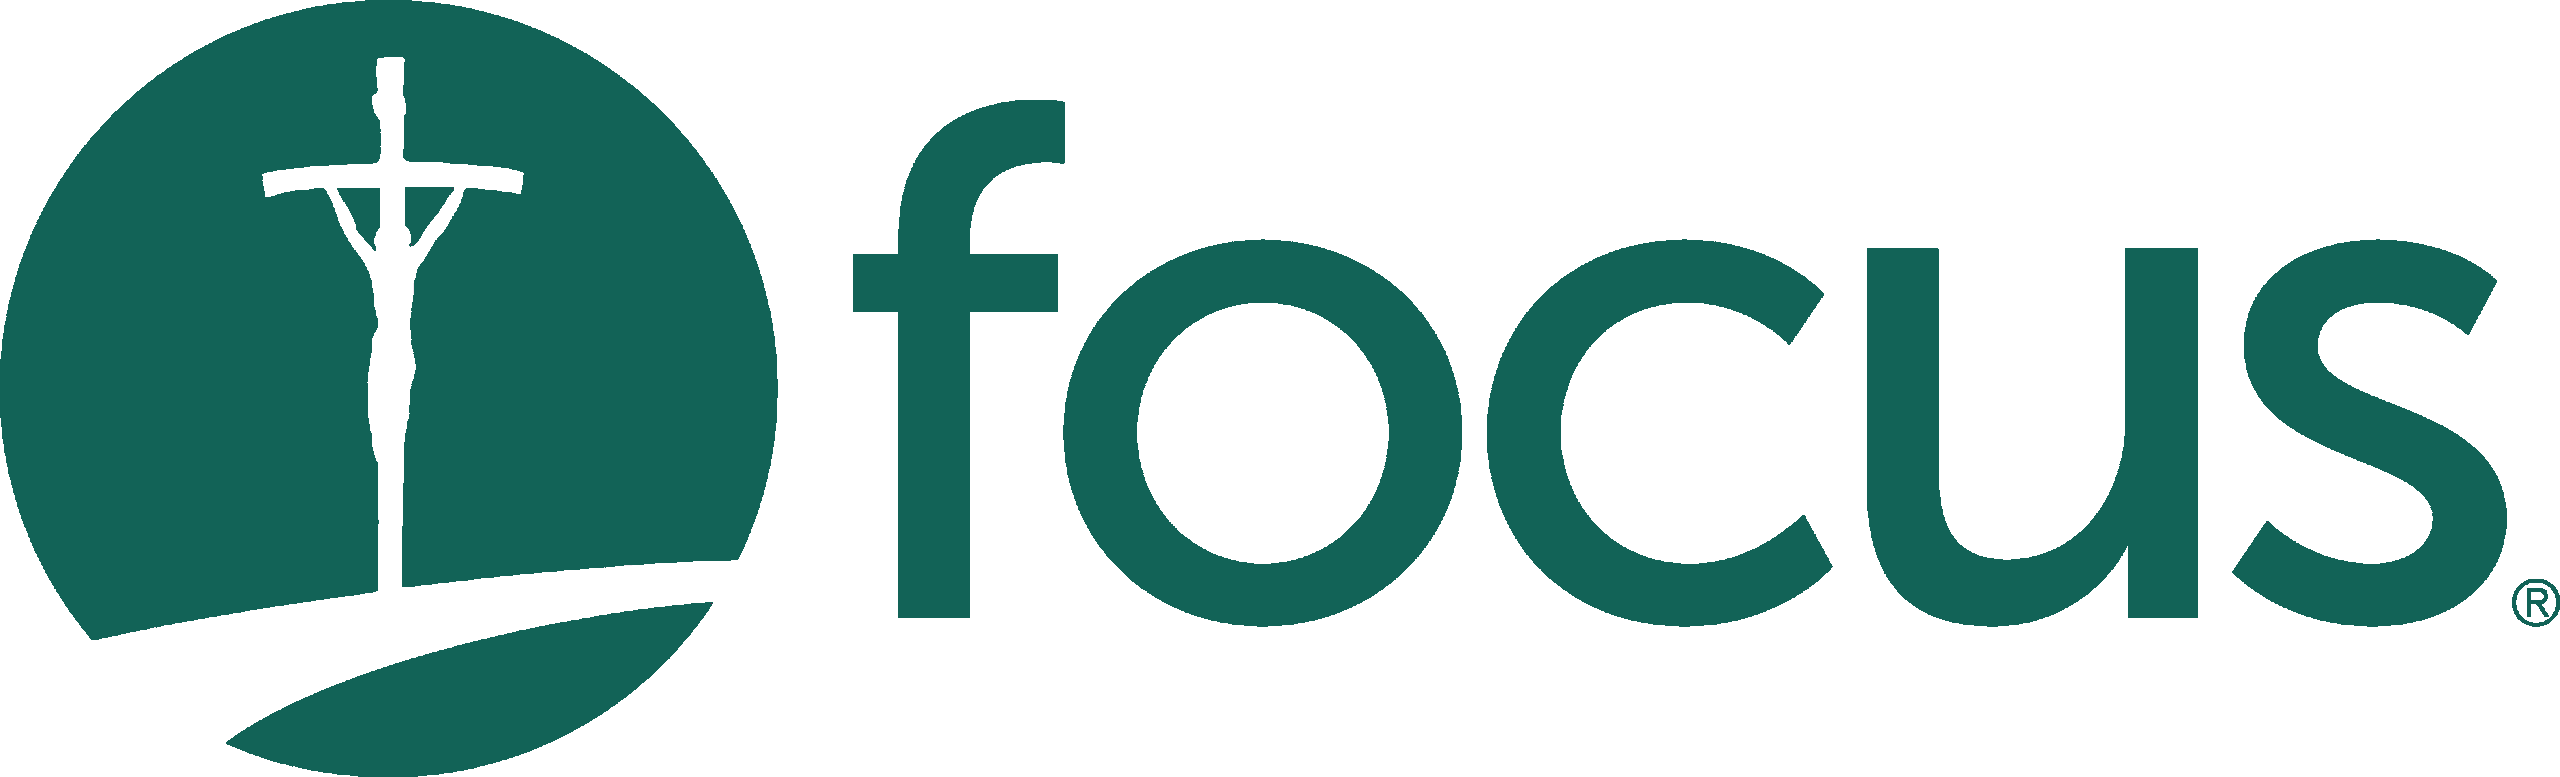
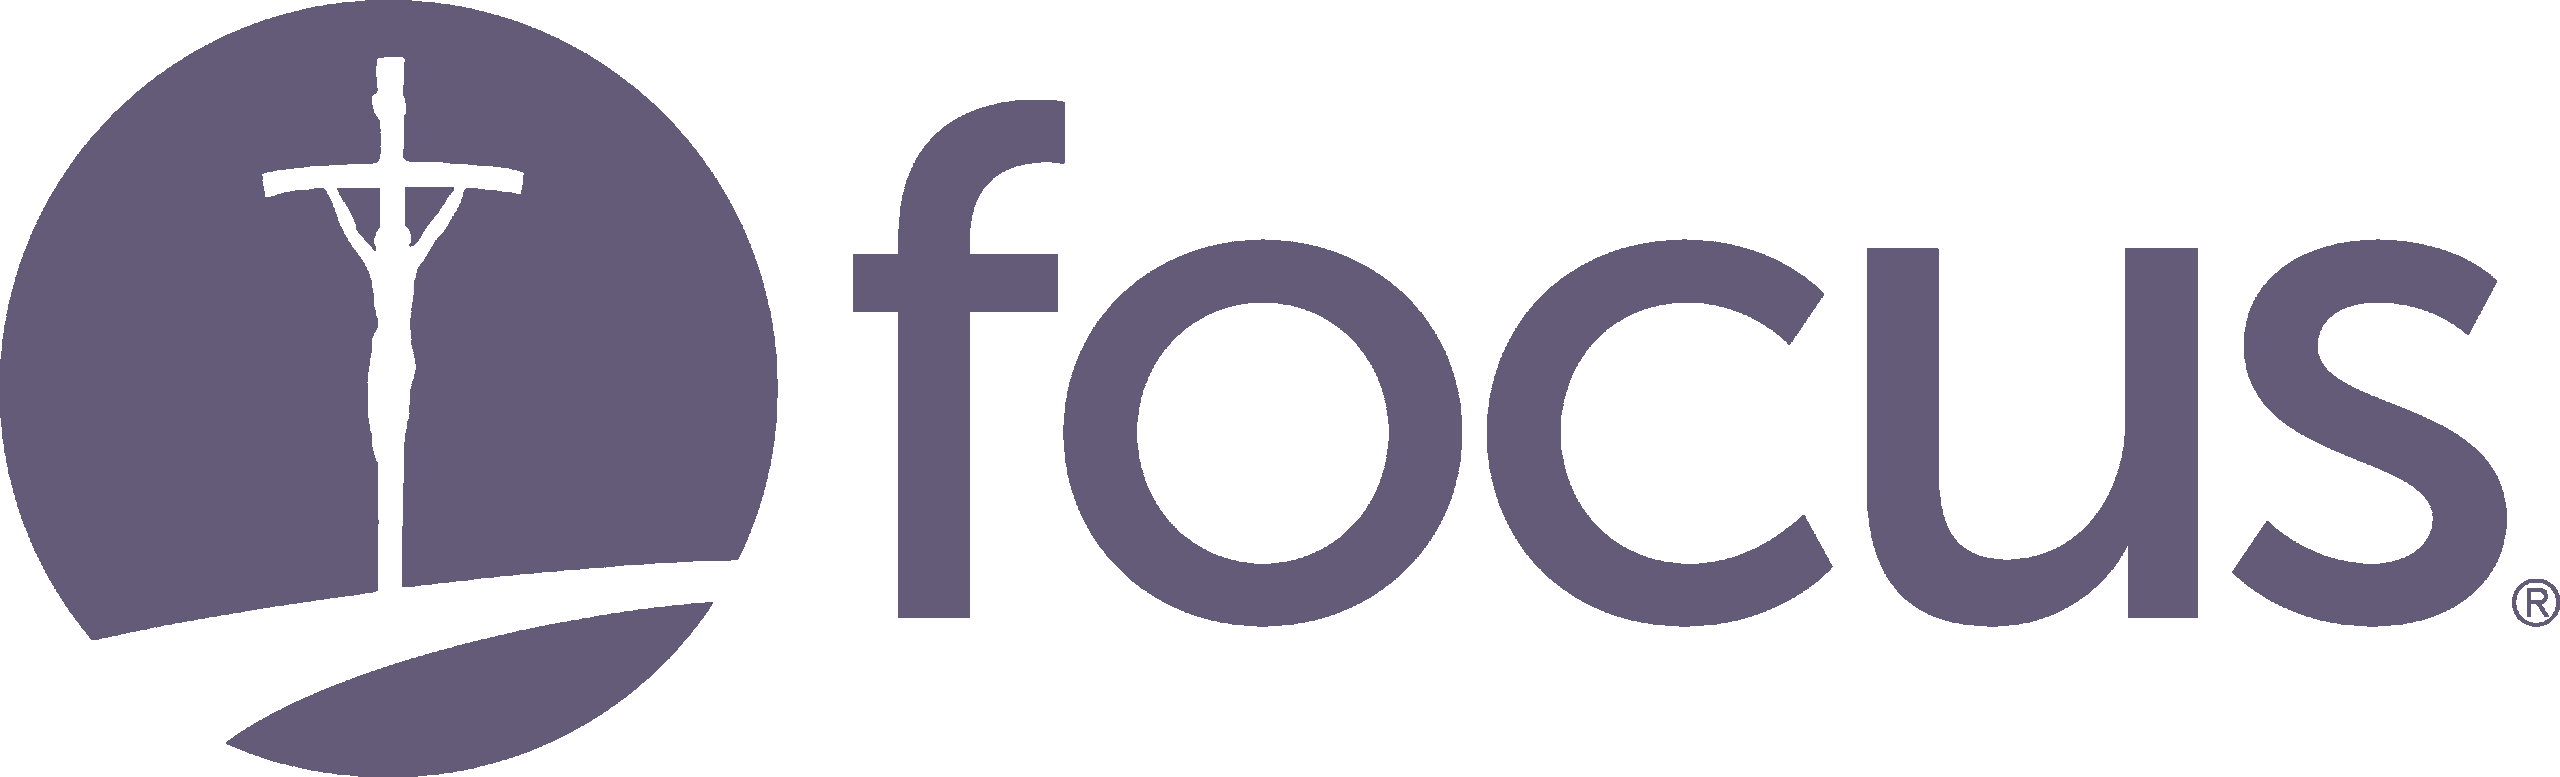
Work on March '25 newsletter. Added photos, updated colors, started writing intro

diff --git a/2025/03/colors.css b/2025/03/colors.css
@@ -1,14 +1,13 @@
 :root {
-	--page-color: #f9eeee;
+	--page-color: #e9e8f8;
 
-	--title-tx-color: #126357;
+	--title-tx-color: #635b77;
 	--h-color: var(--title-tx-color);
 
-	--tx-color: #908272;
+	--tx-color: #8e93c3;
 
-	--box-bg-color: #ffc6c5;
+	--box-bg-color: #eff2f7;
 	--box-tx-color: var(--title-tx-color);
-
 }
 
 /* img:not(.contain) {

diff --git a/2025/03/pages.php b/2025/03/pages.php
@@ -9,7 +9,7 @@
 		</div>
 		<div class="page-item vert-center text-center w4 nopad">
 			<h1 class="cardo">The Mission at Mesa</h1>
-			<h5 class="italic" style="white-space: nowrap;">Zach Hofmeister<span class="no-style"> | </span>Colorado Mesa University<span class="no-style"> | </span>February 2025</h5>
+			<h5 class="italic" style="white-space: nowrap;">Zach Hofmeister<span class="no-style"> | </span>Colorado Mesa University<span class="no-style"> | </span>March 2025</h5>
 		</div>
 		<div class="page-item vert-center">
 			<img class="contain no-lightbox" src="/2025/03/images/cmu.png" alt="CMU logo">
@@ -19,7 +19,7 @@
 	<!-- MAIN IMAGE -->
 	<div class="page-section _30">
 		<div class="page-item">
-			<img class="h100" src="/2025/03/images/awake-group.jpeg" alt="" style="object-position: 50% 50%;" data-caption="Our group of students on the awakening retreat!">
+			<img class="h100" src="/2025/03/images/ashwed.jpeg" alt="" style="object-position: 50% 50%;" data-caption="Our group of students on the awakening retreat!">
 		</div>
 	</div>
 
@@ -29,13 +29,13 @@
 			<div class="box">
 				<h2 class="italic">Dear Friends,</h2>
 				<p class="text-large">
-					Happy March! I hope lent is going well for you! I'm excited to share the highlights from mission this past month with you! Thank you so much for being a part of the mission here in your prayers and support for me!
+					I hope that you are doing well! This March was good, refreshing, and challenging all at the same time. Lent started and our campus had spring break and a mission trip! I'm excited to share all of the joys and struggles of mission with you.
 				</p>
 			</div>
 		</div>
 		<div class="page-item">
 			<img class="photo-item h80" src="/2025/03/images/recap.jpeg" alt="" style="object-position: 50% 50%">
-			<p class="caption text-large">Students sharing their testimonies from SEEK at the start of the month</p>
+			<p class="caption text-large">caption</p>
 		</div>
 	</div>
 
@@ -43,13 +43,11 @@
 	<div class="page-section _30">
 		<div class="page-item">
 			<img class="h90" src="/2025/03/images/roses.jpeg" alt="" >
-			<p class="caption text-large">Handing out Valentine's Day roses</p>
+			<p class="caption text-large">caption</p>
 		</div>
 		<div class="page-item">
-			<h3>St. Valentine's Outreach</h3>
-			<p class="text-medium">
-				This year we've been focusing on calling our students, and ourselves, out of our comfort zone in campus outreach. For Valentine's Day, we handed out roses with Valentine's notes and invitations to Mesa Catholic. We had a lot more help from our students than normal, and had a lot of positive interactions with people through it!
-			</p>
+			<h3>Section</h3>
+			<p class="text-medium">paragraph</p>
 		</div>
 	</div>
 </div>
@@ -66,14 +64,12 @@
 	<!-- New Bible Studies -->
 	<div class="page-section _30">
 		<div class="page-item text-right">
-			<h3>New Bible Studies</h3>
-			<p class="text-medium">
-				Barrett started leading his first Bible study this month, and Gabe had his first experience co-leading my study. They have both been doing a good job leading and inviting their friends too. I've been preparing them to share Gospel invitations with study members soon - please pray for the Holy Spirit to encourage them!
-			</p>
+			<h3>Section</h3>
+			<p class="text-medium">paragraph</p>
 		</div>
 		<div class="page-item">
 			<img class="photo-item h80" src="/2025/03/images/bstud-gabe.jpeg" alt="" style="object-position: 50% 50%;">
-			<p class="caption text-large">Gabe leading a Bible study session about confession</p>
+			<p class="caption text-large">caption</p>
 		</div>
 	</div>
 
@@ -81,11 +77,11 @@
 	<div class="page-section _25">
 		<div class="page-item">
 			<img class="photo-item h80" src="/2025/03/images/bstud-volleyball.jpeg" alt="" >
-			<p class="caption text-large">My discipleship men during their intramural volleyball game</p>
+			<p class="caption text-large">caption</p>
 		</div>
 		<div class="page-item">
 			<img class="photo-item h80" src="/2025/03/images/awake-adoration.jpeg" alt="" >
-			<p class="caption text-large">The 24-hour Adoration chapel at Awakening to pray for retreaters</p>
+			<p class="caption text-large">caption</p>
 		</div>
 	</div>
 
@@ -93,13 +89,11 @@
 	<div class="page-section _35">
 		<div class="page-item">
 			<img class="h80" src="/2025/03/images/awake-table.jpeg" alt="">
-			<p class="caption text-large">My small group on the Awakening retreat</p>
+			<p class="caption text-large">caption</p>
 		</div>
 		<div class="page-item">
-			<h3>Awakening Retreat</h3>
-			<p class="text-medium">
-				Towards the end of the month we had the Awakening retreat with our students. On the retreat we had Mass, Adoration, and confession, as well as lots of time listening to talks, and discussing how we can grow closer to the Lord. It was awesome to see students who went for the first time last year now giving talks and sharing their testimonies with new students!
-			</p>
+			<h3>Section</h3>
+			<p class="text-medium">paragraph</p>
 		</div>
 	</div>
 </div>
@@ -113,14 +107,11 @@
 			<h3 class="text-right">Other Highlights</h3>
 			<ul class="text-medium">
 				<li>Robert asking me to be his sponsor for his confirmation this Easter!</li>
-				<li>The Mesa Catholic superbowl party</li>
-				<li>Our first monthly leadership prayer meeting, bringing student leaders together to pray for the Holy Spirit's direction of campus mission</li>
-				<li>Seeing God work in amazing ways in our wedding planning, providing sponsors for our reception venue!</li>
 			</ul>
 		</div>
 		<div class="page-item">
 			<img class="h80" src="/2025/03/images/shooting.jpeg" alt="" style="object-position: 50% 50%;">
-			<p class="caption text-large">Skeet shooting with the Exodus 90 men's group</p>
+			<p class="caption text-large">caption</p>
 		</div>
 	</div>
 
@@ -128,11 +119,11 @@
 	<div class="page-section _20">
 		<div class="page-item">
 			<img class="h80" src="/2025/03/images/chicken.jpeg" alt="" style="object-position: 50% 50%;">
-			<p class="caption text-large">Getting Chick-fil-a with our students</p>
+			<p class="caption text-large">caption</p>
 		</div>
 		<div class="page-item">
 			<img class="photo-item h80" src="/2025/03/images/skiing.jpeg" alt="" style="object-position: 50% 50%;">
-			<p class="caption text-large">Cross-country skiing with Morgan (our regional director) and Haleigh</p>
+			<p class="caption text-large">caption</p>
 		</div>
 	</div>
 
@@ -150,7 +141,7 @@
 	<div class="page-section _25">
 		<div class="page-item">
 			<img class="photo-item h80" src="/2025/03/images/engaged.jpeg" alt="" style="object-position: 50% 17%;">
-			<p class="caption text-large">Our student Sophie took our engagement photos - she is amazing!</p>
+			<p class="caption text-large">caption</p>
 		</div>
 		<div class="page-item text-medium">
 			<div class="box">
